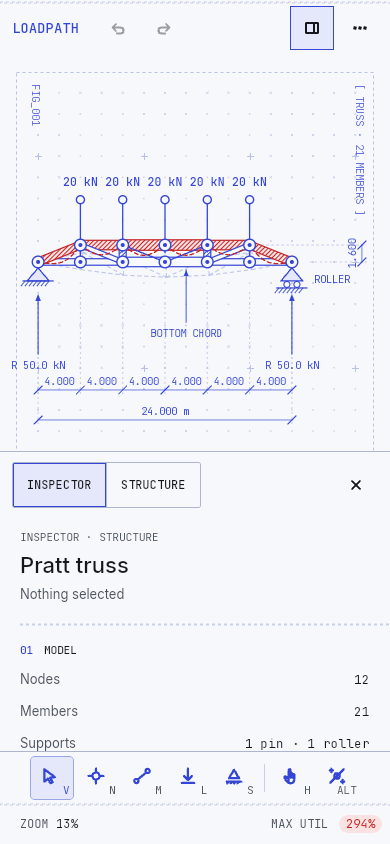
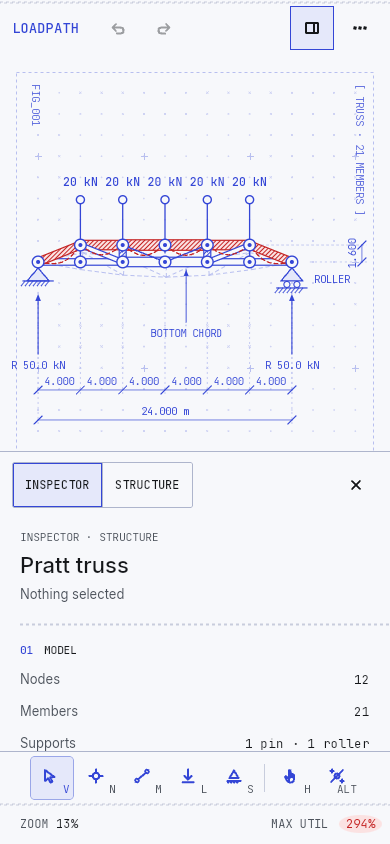
docs: the theme pass in the README, the info file and the screenshots
The README's Built with, project tree and Architecture decisions describe the Simple theme: the palette
file Studio's Themes tab edits, the role brushes, Warn as the one colour without a role, the type ramp,
the token bases, which controls are the theme's and which keep a small template, and what changed in
the look. A validation entry records the gate, the builds, the palette swap and the live theme switch.
.studiolive/agent-context.json says where the palette lives and which brushes, styles and tokens to use;
sample.json and uno-sample.json drop "on Fluent"; the four screenshots are retaken from the same Debug
fixtures (40 px toolbar buttons, 16 px tool icons). Stale comments that named Tokens.xaml or Fluent are
updated.

Claude-Session: https://claude.ai/code/session_018xTsJQBTiLfieqJekJ23K3

diff --git a/Loadpath/Views/CommandPalette.xaml b/Loadpath/Views/CommandPalette.xaml
@@ -4,7 +4,7 @@
              xmlns:c="using:Loadpath.Controls"
              xmlns:utu="using:Uno.Toolkit.UI">
   <Grid x:Name="Scrim" Background="{ThemeResource SimpleBackgroundUtilitiesOverlayBrush}" PointerPressed="OnScrimPressed">
-    <!-- xaml-lint: allow card - popover chrome, not a card; Toolkit cards need a design theme this Fluent app does not merge (README) -->
+    <!-- xaml-lint: allow card - popover chrome over a scrim, not a card -->
     <Border x:Name="Panel" MaxWidth="{StaticResource PaletteMaxWidth}" MaxHeight="{StaticResource PaletteMaxHeight}" HorizontalAlignment="Stretch" VerticalAlignment="Top"
             Margin="{utu:Responsive Narrow={StaticResource PaletteMarginNarrow}, Normal={StaticResource PaletteMargin}}"
             Background="{ThemeResource SurfaceVariantBrush}" BorderBrush="{ThemeResource OutlineVariantBrush}" BorderThickness="{StaticResource Hairline}" CornerRadius="{StaticResource Radius200CornerRadius}"

diff --git a/Loadpath/Views/ToolRail.xaml b/Loadpath/Views/ToolRail.xaml
@@ -9,7 +9,7 @@
     targets (it scrolls sideways on the narrowest phones rather than clipping).
     The last tool is the touch stand-in for Alt: free placement, no snapping.
   -->
-  <!-- xaml-lint: allow card - tool palette chrome (a strip on phones), not a card; no Toolkit card theme under Fluent (README) -->
+  <!-- xaml-lint: allow card - tool palette chrome (a strip on phones), not a card -->
   <Border Background="{ThemeResource SurfaceBrush}" BorderBrush="{ThemeResource OutlineVariantBrush}"
           BorderThickness="{utu:Responsive Narrow={StaticResource HairlineTop}, Normal={StaticResource Hairline}}"
           CornerRadius="{utu:Responsive Narrow={StaticResource Radius0CornerRadius}, Normal={StaticResource Radius200CornerRadius}}"

diff --git a/README.md b/README.md
@@ -6,7 +6,7 @@
 
 A desktop workbench for 2D trusses that solves as you draw. Place nodes, connect them, pin some to the ground, hang loads, and every member shows the force it carries, its utilization, and the deflected shape. Drag a node and the whole load path re-solves on every pointer move.
 
-Built with Uno Platform (`Uno.Sdk 7.0.0-dev.115`, Skia renderer, SkiaSharp 4) for five heads: desktop (Windows, macOS and Linux through Skia), Windows App SDK, WebAssembly, Android and iOS. It follows the system theme (a light blueprint sheet or a dark drafting table), lays itself out for phones, tablets and desktops, and edits by mouse and keyboard or by touch. The product and interaction design are in [`SPEC.md`](SPEC.md); this file covers what shipped, how it is built, and how it was validated.
+Built with Uno Platform (`Uno.Sdk 7.0.0-dev.115`, Skia renderer, SkiaSharp 4, the Simple theme of Uno Themes with the design's palette in `Styles/ColorPaletteOverride.xaml`) for five heads: desktop (Windows, macOS and Linux through Skia), Windows App SDK, WebAssembly, Android and iOS. It follows the system theme (a light blueprint sheet or a dark drafting table), lays itself out for phones, tablets and desktops, and edits by mouse and keyboard or by touch. The product and interaction design are in [`SPEC.md`](SPEC.md); this file covers what shipped, how it is built, and how it was validated.
 
 ![Warren truss with a member selected](docs/shot1.png)
 
@@ -88,7 +88,10 @@ Loadpath/           Uno single-project app
                     WrapStack, ThemeLookup, Converters (the utilization bar is a styled ProgressBar)
   Services/         FileService (IDocumentFiles), SettingsService (ISettingsStore), ThemeSwitcher (IThemeService),
                     CloseGuard, DispatcherUiThread
-  Themes/           Tokens (Light and Dark), Layout (spacing, sizes, the responsive layout), Icons, Controls
+  Styles/           ColorPaletteOverride (the Simple theme's palette, Light and Dark: the file Studio's Themes tab
+                    edits), TypographyOverride (the type ramp and the mono family)
+  Themes/           Layout (layout sizes no theme token covers, the responsive layout), Icons, Controls (text styles
+                    on the semantic styles, the theme's controls with the design's sizes, the app's own templates)
 ```
 
 **Decision: MVUX for the presentation layer, an imperative engine for the document.** `EditorModel` is a `partial record` whose states and feeds carry immutable records (`EditorStatus`, `InspectorContent`, `OutlineItem`, `PaletteItem`); the generated `EditorViewModel` is the page's DataContext and every view binds with `{Binding}`. Buttons bind generated commands; undo and redo are feed-gated (`Command.Create(b => b.Given(Status).When(s => s.CanUndo)...)`). `EditorEngine` owns the document, undo history, selection, viewport and tools, and raises events the model projects into states, because a solve on every pointer move cannot copy an immutable document per frame. Tradeoff: two layers, and a plain `ViewOptions` mirror of the option states for the renderer. The model's pieces (status, options, inspector, outline, palette, presets) declare their own states and share the model's `SourceContext`: the generated view model binds a state of another context read-only.
@@ -101,15 +104,15 @@ Loadpath/           Uno single-project app
 
 **Decision (proposed, 2026-11-04): a view the user moved is refit only when a narrower window would cut the structure off.** A fitted view follows every resize, as before. A moved view stays where the user put it, unless the whole structure was on the canvas before the resize and part of it is not after it; then it is fitted again. A view the user left partly off the canvas stays theirs. Tradeoff: a narrower window can undo a zoom the user chose.
 
-**Decision (proposed, 2026-11-04): a custom app icon in place of the Uno template's.** The launcher, splash and gallery icon are one mark: a roof truss on a pin and a roller, white on the app's accent (`AccentColor` #3446D6), drawn as flat strokes so it reads at 48 px. `Assets/Icons/icon.svg` (the accent square), `icon_foreground.svg` (the mark) and `Assets/Splash/splash_screen.svg` (the mark in the accent on white) keep the template's viewBoxes, so the Resizetizer's foreground scales (1.0 desktop, web and Windows, 0.80 iOS, 0.65 Android) keep it inside each safe zone.
+**Decision (proposed, 2026-11-04): a custom app icon in place of the Uno template's.** The launcher, splash and gallery icon are one mark: a roof truss on a pin and a roller, white on the app's accent (the Light `PrimaryColor` #3446D6), drawn as flat strokes so it reads at 48 px. `Assets/Icons/icon.svg` (the accent square), `icon_foreground.svg` (the mark) and `Assets/Splash/splash_screen.svg` (the mark in the accent on white) keep the template's viewBoxes, so the Resizetizer's foreground scales (1.0 desktop, web and Windows, 0.80 iOS, 0.65 Android) keep it inside each safe zone.
 
 **Decision (proposed, 2026-11-04): the showcase info file points at the sample's future home.** `.studiolive/sample.json` (sample id `loadpath`) gives its icon and screenshots as `https://raw.githubusercontent.com/unoplatform/Uno.Samples/master/studio/loadpath/.studiolive/...`, as the format guide's example does, so they resolve only after the move to Uno.Samples. Whether relative paths can be used instead is the Studio team's question 1 in uno-private#2444. The screenshots were taken from the desktop head at 1280 x 800 and 390 x 844 with the samples the Debug fixtures load (nothing debug-only is in the frame).
 
 **Decision: one `SKCanvasElement` for the workspace, XAML for everything contextual.** Ribbons, labels, supports, guides and adorners must be pixel-registered with the structure, so they are Skia. The floating bar, banners, toasts and the drag ghost are XAML on an overlay layer positioned through the viewport transform. The renderer reads a `RenderSnapshot` built on the UI thread and holds no per-frame allocations beyond paths. There is no `CompositionTarget.Rendering` subscription; viewport animations run a timer only while moving.
 
-**Decision: Fluent plus the app's own tokens; Uno Toolkit for responsive layout only.** The visual system is custom (blueprint drafting sheet, Inter for UI, JetBrains Mono for every number, hairlines instead of shadows), so the app carries its own tokens and control styles on top of Fluent (`XamlControlsResources`) instead of restyling a theme. No Material. The Toolkit (`UnoFeatures` `Toolkit`) is referenced for `utu:Responsive`, `ResponsiveView` and `utu:SafeArea` (the title strip, the work area and the status strip stay inside the phone's visible bounds); `ToolkitResources` is not merged, so it adds no control styles, and no Toolkit control with a template (Card, Chip, TabBar, NavigationBar) is used. This reverses the earlier "no Toolkit" decision.
+**Decision: the Simple theme carries the look; Uno Toolkit for responsive layout.** The visual system is the blueprint drafting sheet (Inter for UI, JetBrains Mono for every number, hairlines instead of shadows), carried by Uno Themes so Uno Platform Studio's Themes tab and any other theme change reach it. `App.xaml` merges `SimpleToolkitTheme` (`UnoFeatures` `SimpleTheme`, `Toolkit`): its `Colors` point at `Styles/ColorPaletteOverride.xaml`, the design's full Light and Dark table on all 33 palette keys; `DefaultFontFamily` is Inter and `FontOverrideSource` (`Styles/TypographyOverride.xaml`) sets the design's ramp (11 12 13 14 22) and `MonoFontFamily`; `DefaultSpacing` 8 and `DefaultCornerRadius` 4 generate the `Space*` and `Radius*` tokens. Pages, styles, converters and the canvas use the role brushes (`OnSurfaceBrush`, `PrimaryBrush`, `OutlineVariantBrush`, `ErrorContainerBrush`...): the structure is drawn in Primary, construction lines are Primary blended into the paper, and failure is Error. The one colour with no role is Warn, the amber step of the utilization ramp, in `App.xaml`'s Light and Default dictionaries. Text uses the semantic styles (BodyMedium, LabelSmall, HeadlineSmall...); SAVE, the links, the outlined actions, DELETE, menus, flyouts, fields, check boxes, the progress bar and tooltips are the theme's styles with the design's sizes. List rows, square icon buttons, the segmented toggles, the reduce-noise switch, the tool button and the number field keep small templates on role brushes (Simple's button templates cannot stretch a row's content, and Simple has no segmented control). `utu:Responsive`, `ResponsiveView` and `utu:SafeArea` keep the title strip, the work area and the status strip inside the phone's visible bounds. Tradeoff: menus highlight with the theme's Primary fill, toolbar buttons are 40 px (were 38) and 14 and 18 px icons are 16.
 
-**Decision: two themes, one identity.** Every colour role exists for Light (the blueprint sheet: paper `#F7F8FB`, near-black ink, blueprint-blue structure) and Dark (a drafting table at night: blue-slate paper `#10141B`, chalk ink, the structure in a lighter blueprint blue `#8FA0FF`). Views use `{ThemeResource}`; the canvas palette and the brush-key converters read the same tokens for the window's theme and re-read them on `ActualThemeChanged`. The app follows the system by default; the `⋯` menu (and three palette commands) pin Light or Dark, and the choice is saved with the view settings. Text passes 4.5:1 in both themes (InkTertiary moved from 3.0:1 to 5.5:1 on light). Dark is keyed `Default`, so Windows High Contrast falls back to it instead of failing to resolve.
+**Decision: two themes, one identity.** Every palette role has a Light value (the blueprint sheet: paper `#F7F8FB`, near-black ink, blueprint-blue structure) and a Dark one (a drafting table at night: blue-slate paper `#10141B`, chalk ink, the structure in a lighter blueprint blue `#8FA0FF`). Views use `{ThemeResource}` role brushes; the canvas palette and the brush-key converters read the same roles for the window's theme through `ThemeLookup`, re-read them on `ActualThemeChanged`, and again when the theme recolours its brushes after a palette edit. The app follows the system by default; the `⋯` menu (and three palette commands) pin Light or Dark, and the choice is saved with the view settings. Text passes 4.5:1 in both themes (secondary ink 7.3:1 on the light paper). Dark is keyed `Default`, so Windows High Contrast falls back to it instead of failing to resolve.
 
 **Decision: one responsive layout for the workbench.** `Themes/Layout.xaml` defines the app's only `utu:ResponsiveLayout` as `DefaultResponsiveLayout` (Normal 600, Wide 1100, Widest 1240): a docked 336 px inspector needs 1100 px to leave the sheet usable, and the docked outline docks from 1240 px as it always did. Widest shows outline, canvas and inspector; Wide docks the inspector with the outline as its second tab; Normal makes the inspector a side sheet over the canvas; Narrow (phones) turns the tools into a 44 px strip under the drawing, the inspector into a bottom sheet and moves secondary commands into the title's `⋯` menu. `Ctrl+\` and the title's inspector button toggle whichever the layout has. Tradeoff: Loadpath's breakpoints differ from the Toolkit defaults the other samples use.
 
@@ -119,6 +122,7 @@ Loadpath/           Uno single-project app
 
 ## Validation
 
+- Theme pass (2026-11-06): the look moved onto the Simple theme (see Architecture). The theme gate prints OK (no hex outside the palette file and `App.xaml`, no colour literal in C#, no literal font or radius; one literal margin left, the displacement dot's centring). Debug desktop and the Release WebAssembly publish build with 0 errors and no new warnings. Under Xvfb, the four showcase states and the empty, palette, node and member states compare with the previous build in Light and Dark at 1280 x 800 and 390 x 844. With `PrimaryColor` and `PrimaryContainerColor` set to `#C2185B` and the Background and Surface colours swapped in the palette file, every accent (SAVE, links, the wordmark, segments, the active tool, the selection, the structure and its labels on the canvas) and every page and panel followed; a runtime override of the palette recoloured the canvas live. Switching Light to Dark at runtime (the palette command on desktop, the browser's colour scheme in headless Chromium) turned the chrome and the canvas together.
 - Pre-transfer cleanup (2026-11-04): unused usings, members, a never-read field, resources (the motion-token dictionary, a text style, eight tokens, one font file) and template leftovers removed, stale comments rewritten or removed; behaviour unchanged. 325 tests pass; desktop, WebAssembly and Android build with 0 warnings; the semantic lint has 0 gating hits; 25.4 automation names per 1,000 XAML lines. The app icon and splash are Loadpath's own mark (see Architecture), and `.studiolive/` holds the showcase info file.
 - A pass 2 (2026-11-04, closed scope from the code review): `EditorModel` is 282 lines and each of its pieces under 200; `WorkspaceView` went from 623 to 390 lines (touch input, the frame builder and the view fitting have their own classes). A snapped point on a node selects it, undoing a sample gives the file back, picker failures are logged and the fallback says what it did, and a narrower window refits a view it would cut off. A regression of the model split, found at runtime, is fixed: the view could not write the pieces' states (the palette did not filter, typed fields and the layer switches did nothing). 325 tests pass (261 before). Desktop under Xvfb drove workflows 1-7, the touch path and the refit (`docs/evidence/desktop-refit-after-width-change.png`); the Release WebAssembly build in headless Chromium drove the palette, the presets sheet, J, U, Ctrl+Z and a narrower window (`docs/evidence/wasm-palette-presets-refit.png`). The semantic lint has 0 gating hits; 25.1 automation names per 1,000 XAML lines.
 - A pass (2026-11-04): the app's services live in one container (Hosting, Logging, ThemeService) and `MainPage.xaml.cs` went from 764 to 186 lines (see Architecture). 261 tests pass (190 before), the page model and the container among them. The shell stays inside the phone's safe area: the CI emulator dump has the title strip below the status bar (y 177 instead of 49) and the status strip above the gesture bar. The floating bar keeps off the drawing on phones, the tool rail wraps at 844 x 390, input edges are 3:1 in both themes, Tab reaches every control and outline row (59 named stops on Warren), a preset tile loads in one click with a value typed but not entered (desktop and WebAssembly), and failures toast in turn with file names instead of paths. The trimmed Release WebAssembly publish ran in headless Chromium: Warren, then Pratt at 24 / 6 / 1.6 from the presets sheet, J, U and Ctrl+Z (`docs/evidence/`). The semantic lint has 0 gating hits; 25.1 automation names per 1,000 XAML lines.
